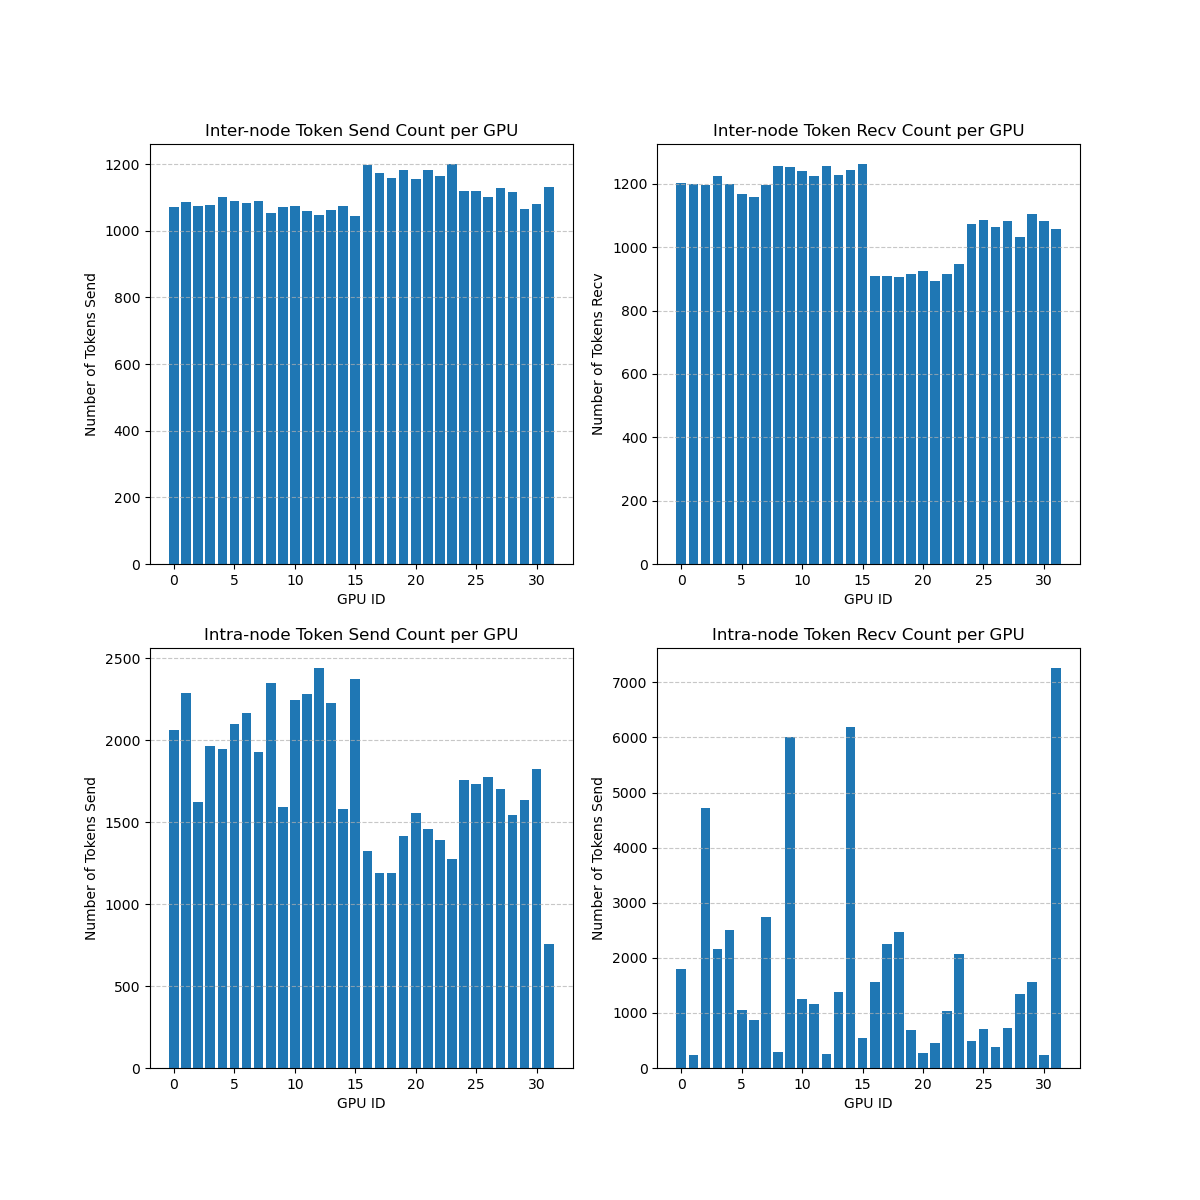
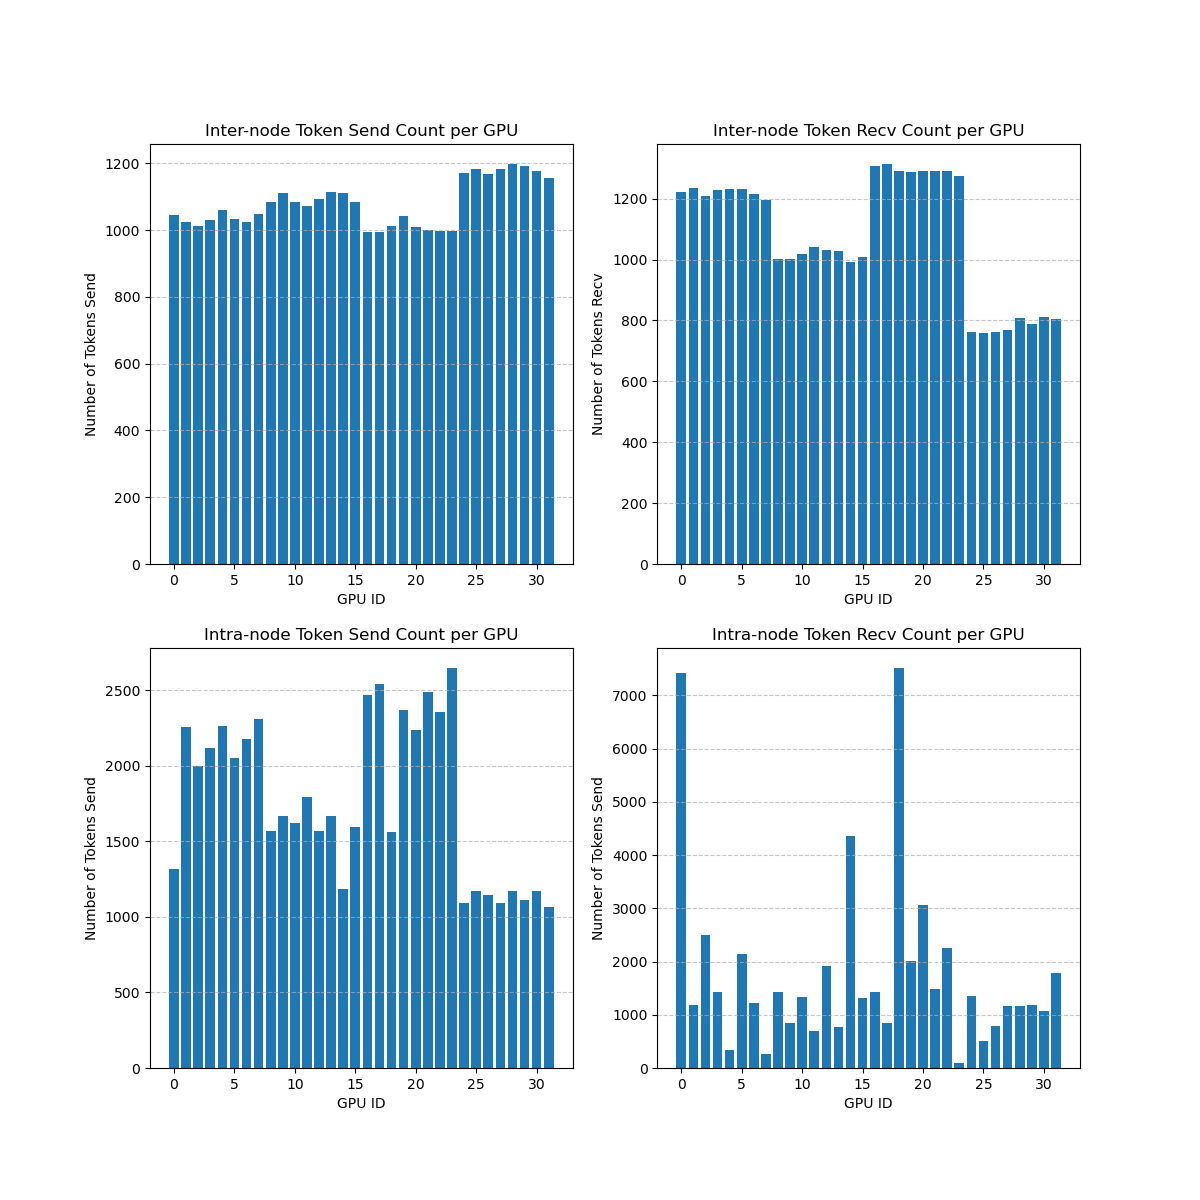
finith node based algo

diff --git a/class-simulator.py b/class-simulator.py
@@ -3,21 +3,30 @@ import pickle
 import numpy as np
 from common import *
 from collections import defaultdict, deque
-from analyze_workload import analyze_post_workload
+from analyze_workload import *
 import time
 
+class TokenClass:
+    def __init__(self, class_id, src_gpu, target_node_set):
+        self.class_id = class_id
+        self.src_gpu = src_gpu
+        self.target_node_set = frozenset(target_node_set)
+        self.weight = len(target_node_set)
+        self.tokens :list[TokenRequest] = []
+        self.size = 0
+        self.sender = src_gpu
 
-class OurSimulator:
-    def __init__(self, config: SimConfig, cluster: Cluster):
+        
+class ClassSimulator:
+    def __init__(self, config :SimConfig, cluster :Cluster):
         self.config = config
         self.cluster = cluster
         self.gpus :list[GPU] = []
-
         for i in range(config.total_gpus):
-            node_id = i // config.gpus_per_node
-            local_rank = i % config.gpus_per_node
-            self.gpus.append(GPU(i, node_id, local_rank))
-    
+                node_id = i // config.gpus_per_node
+                local_rank = i % config.gpus_per_node
+                self.gpus.append(GPU(i, node_id, local_rank))
+
     def get_gpu_id(self, node_id, local_rank):
         return node_id * self.config.gpus_per_node + local_rank
     
@@ -56,80 +65,133 @@ class OurSimulator:
         print(f"="*50)
 
 
+    def simulate_layer(self, requests :list[TokenRequest]):
 
-    def simulate_layer(self, requests: list[TokenRequest]):
-        '''
-        给定一个layer的token request
-        返回这一层的通信时间（s），以及这一层的通信量（kb）
-
-        step1 将TokenRequest对象转成Flow对象
-        step2 执行算法第二步，发送端负载均衡
-        step3 执行算法第三步，实现接收端负载均衡
-        step4 计算总开销
-        '''
-
-        # 上一轮结束后清空负载
         for gpu in self.gpus:
             gpu.reset()
+        
         start = time.perf_counter()
-        # 存储所有的(token node) 流
-        all_flows: list[Flow] = []
+        class_map :dict[tuple[int, frozenset[int]], TokenClass] = {}
+
         for req in requests:
+
             src_node = req.src_gpu // self.config.gpus_per_node
-            # 存储(node_id, target_gpus)对，因为一个token request会产生多个token node对
-            target_node_gpu = defaultdict(list)
+
+            target_nodes = set()
+            
             for target_gpu in set(req.target_gpus):
                 target_node = target_gpu // self.config.gpus_per_node
+                
                 if src_node != target_node:
-                    target_node_gpu[target_node].append(target_gpu)
+                    target_nodes.add(target_node)
                 else:
                     if req.src_gpu != target_gpu:
                         self.gpus[req.src_gpu].intra_tx += 1
                         self.gpus[target_gpu].intra_rx += 1
-            for target_node, target_gpus in target_node_gpu.items():
-                all_flows.append(Flow(req.token_id, req.src_gpu, target_node, target_gpus))
+            if not target_nodes:
+                continue
+
+            key = (req.src_gpu, frozenset(target_nodes))
+            if key not in class_map:
+                class_map[key] = TokenClass(len(class_map), req.src_gpu, target_nodes)
+            
+            class_map[key].size += 1
+            class_map[key].tokens.append(req)
         
-        # step2 发送端负载均衡
-        gpu_send_queue :defaultdict[int, deque[Flow]]= defaultdict(deque)
-        gpu_send_loads = np.zeros((self.config.num_nodes, self.config.gpus_per_node), dtype=int)
+        all_classes :list[TokenClass] = list(class_map.values())
 
-        # 统计每个GPU的发送负载
-        for flow in all_flows:
-            flow.sender = flow.src_gpu
-            gpu_send_queue[flow.src_gpu].append(flow)
+        # 发送端负载均衡
+        gpu_send_load = np.zeros((self.config.num_nodes, self.config.gpus_per_node), dtype=int)
+        gpu_send_queue :defaultdict[int, list[TokenClass]] = defaultdict(list)
 
-            src_node = flow.src_gpu // self.config.gpus_per_node
-            src_rank = flow.src_gpu % self.config.gpus_per_node
-            gpu_send_loads[src_node][src_rank] += 1
+        for c in all_classes:
+            src_node = c.src_gpu // self.config.gpus_per_node
+            src_rank = c.src_gpu % self.config.gpus_per_node
+
+            gpu_send_queue[c.src_gpu].append(c)
+            gpu_send_load[src_node][src_rank] += c.size * c.weight
         
         for node_id in range(self.config.num_nodes):
-            current_loads = gpu_send_loads[node_id]
+            current_load = gpu_send_load[node_id]
 
-            max_iter = len(all_flows) // self.config.num_nodes + 100
-            for _ in range(max_iter):
-                g_h = np.argmax(current_loads)
-                g_c = np.argmin(current_loads)
+            for _ in range(100):
+                g_h = np.argmax(current_load)
+                g_c = np.argmin(current_load)
 
-                max_load = current_loads[g_h]
-                min_load = current_loads[g_c]
+                max_load = current_load[g_h]
+                min_load = current_load[g_c]
 
                 if max_load <= min_load + 1:
                     break
-
+                
                 hot_gpu_id = self.get_gpu_id(node_id, g_h)
                 cold_gpu_id = self.get_gpu_id(node_id, g_c)
 
-                # 选择一个flow从hot gpu转移到cold gpu
-                # 由于flow size都是1，所以选哪个都一样
-                move_flow = gpu_send_queue[hot_gpu_id].pop()
-                # 转移到cold_gpu上
-                move_flow.sender = cold_gpu_id
+                best_k = 0
+                best_class = None
+                best_gain = 0
+
+                for c in gpu_send_queue[hot_gpu_id]:
+
+                    if c.size == 0: continue
+
+                    diff = max_load - min_load
+                    k_ideal = diff // (2 * c.weight)
+
+                    k = min(c.size, k_ideal)
+
+                    if k <= 0: continue
+
+                    current_load_copy = np.copy(current_load)
+                    current_load_copy[g_h] -= k * c.weight
+                    current_load_copy[g_c] += k * c.weight
+                    
+                    new_bottleneck = np.max(current_load_copy)
+
+                    if new_bottleneck < max_load:
+                        gain = max_load - new_bottleneck
+                        if gain > best_gain:
+                            best_k = k
+                            best_class = c
                 
-                gpu_send_queue[cold_gpu_id].append(move_flow)
-                current_loads[g_h] -= 1
-                current_loads[g_c] += 1
+                if best_k > 0 and best_class:
+                    move_tokens = []
+                    for _ in range(best_k):
+                        move_tokens.append(best_class.tokens.pop())
+                    best_class.size -= best_k
+
+                    new_class = TokenClass(-1, best_class.src_gpu, best_class.target_node_set)
+                    new_class.size = best_k
+                    new_class.tokens = move_tokens
+                    new_class.sender = cold_gpu_id
+                    gpu_send_queue[cold_gpu_id].append(new_class)
+
+                    current_load[g_h] -= best_k * best_class.weight
+                    current_load[g_c] += best_k * best_class.weight
+                else:
+                    break
         
-        # step3 接收端负载均衡
+        # 将第一阶段已经调度完成的所有token class改写成flow，并存入all_flows中，用于接收端负载均衡调度
+        # 第一阶段调度完成的token class都在gpu_send_queue中，遍历gpu_send_queue并创建all_flows
+        all_flows :list[Flow] = []
+        for send_queue in gpu_send_queue.values():
+            for c in send_queue:
+                if c.size == 0: continue
+
+                for target_node in c.target_node_set:
+                    for token in c.tokens:
+                        target_gpus = []
+                        for target_gpu in token.target_gpus:
+                            t_node = target_gpu // self.config.gpus_per_node
+                            if t_node == target_node:
+                                target_gpus.append(target_gpu)
+
+                        flow = Flow(token.token_id, token.src_gpu, target_node, target_gpus)
+
+                        flow.sender = c.sender
+                        all_flows.append(flow)
+        
+        # 接收端负载均衡
         gpu_recv_queue :defaultdict[int, deque[Flow]] = defaultdict(deque)
         gpu_recv_load = np.zeros((self.config.num_nodes, self.config.gpus_per_node), dtype=int)
         
@@ -177,7 +239,6 @@ class OurSimulator:
         end = time.perf_counter()
         print(f"调度总开销：{(end - start) * 1000:.3f} ms")
         # step4 计算总开销
-        
         total_inter_token = 0
         for flow in all_flows:
             # 计算机间负载
@@ -213,7 +274,7 @@ class OurSimulator:
             max_inter_load = max(max_inter_load, gpu.inter_rx, gpu.inter_tx)
             max_intra_load = max(max_intra_load, gpu.intra_rx, gpu.intra_tx)
 
-        analyze_post_workload(self.gpus, "ours.png")
+        analyze_post_workload(self.gpus, "our-class.png")
         
         time_inter = (max_inter_load * self.config.token_size) / self.config.bw_inter
         time_intra = (max_intra_load * self.config.token_size) / self.config.bw_intra
@@ -226,5 +287,5 @@ if __name__ == "__main__":
     args = get_args()
     config = get_config(args)
     cluster = Cluster(config)
-    simulator = OurSimulator(config, cluster)
+    simulator = ClassSimulator(config, cluster)
     simulator.run_simulation(args.workload_output_dir)

diff --git a/ours-simulator-coarse.py b/ours-simulator-coarse.py
@@ -236,19 +236,22 @@ class OurSimulatorCoarse:
             self.gpus[flow.receiver].inter_rx += flow.size
             total_inter_tokens += flow.size
 
-            # 源主机offload
+        processed_source_tokens = set()
+        
+        for flow in all_flows:
+            # 源端节点中继
             if flow.src_gpu != flow.sender:
-                self.gpus[flow.src_gpu].intra_tx += flow.size
-                self.gpus[flow.sender].intra_rx += flow.size
+                token_key = (flow.src_gpu, flow.sender, flow.token_id)
+                if token_key not in processed_source_tokens:
+                    self.gpus[flow.src_gpu].intra_tx += 1
+                    self.gpus[flow.sender].intra_rx += 1
+                    processed_source_tokens.add(token_key)
             
-            # 目的主机分发
-            for req in flow.requests:
-                for target_gpu in set(req.target_gpus):
-                    t_node = target_gpu // self.config.gpus_per_node
-                    if t_node == flow.target_node:
-                        if flow.receiver != target_gpu:
-                            self.gpus[flow.receiver].intra_tx += 1
-                            self.gpus[target_gpu].intra_rx += 1
+            # 目的端分发
+            for target_gpu in set(flow.target_gpus):
+                if flow.receiver != target_gpu:
+                    self.gpus[flow.receiver].intra_tx += 1
+                    self.gpus[target_gpu].intra_rx += 1
         
         # 计算瓶颈时间
         max_inter_load = 0
